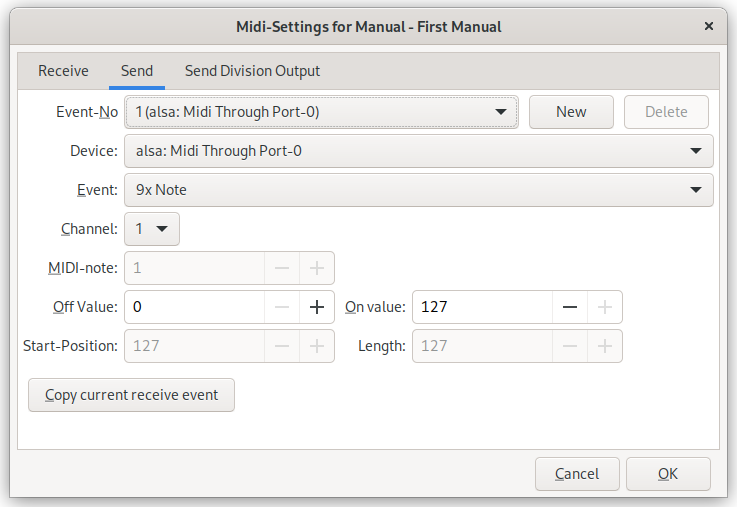
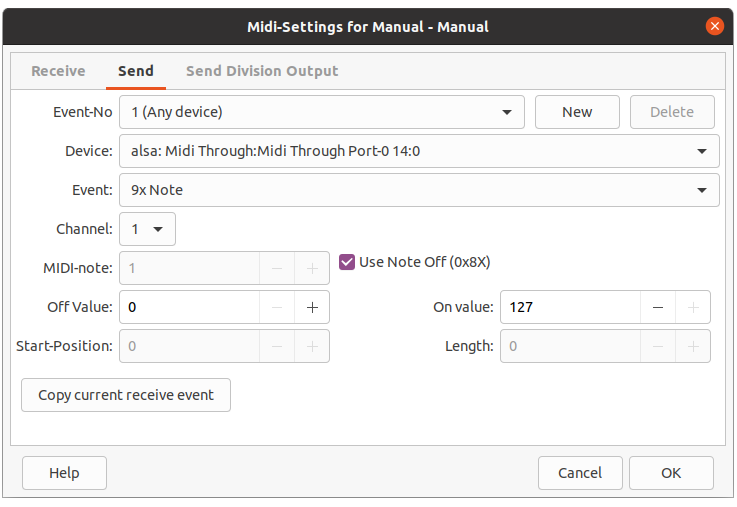
Changes according to comments on the PR.

diff --git a/src/grandorgue/midi/GOMidiSender.cpp b/src/grandorgue/midi/GOMidiSender.cpp
@@ -79,20 +79,21 @@ void GOMidiSender::Load(GOConfigReader &cfg, wxString group, GOMidiMap &map) {
         wxString::Format(wxT("MIDISendChannel%03d"), i + 1),
         1,
         16);
-    if (HasKey(eventType)) {
+    if (HasKey(eventType))
       m_events[i].key = cfg.ReadInteger(
         CMBSetting,
         group,
         wxString::Format(wxT("MIDISendKey%03d"), i + 1),
         0,
         0x200000);
+
+    if (IsNote(eventType))
       m_events[i].useNoteOff = cfg.ReadBoolean(
         CMBSetting,
         group,
         wxString::Format(wxT("MIDISendNoteOff%03d"), i + 1),
         false,
         true);
-    }
 
     if (HasLowValue(eventType))
       m_events[i].low_value = cfg.ReadInteger(
@@ -153,16 +154,17 @@ void GOMidiSender::Save(GOConfigWriter &cfg, wxString group, GOMidiMap &map) {
         group,
         wxString::Format(wxT("MIDISendChannel%03d"), i + 1),
         m_events[i].channel);
-    if (HasKey(m_events[i].type)) {
+    if (HasKey(m_events[i].type))
       cfg.WriteInteger(
         group,
         wxString::Format(wxT("MIDISendKey%03d"), i + 1),
         m_events[i].key);
+
+    if (IsNote(m_events[i].type))
       cfg.WriteBoolean(
         group,
         wxString::Format(wxT("MIDISendNoteOff%03d"), i + 1),
         m_events[i].useNoteOff);
-    }
 
     if (HasLowValue(m_events[i].type))
       cfg.WriteInteger(
@@ -262,6 +264,15 @@ bool GOMidiSender::HasLength(GOMidiSenderMessageType type) {
     type == MIDI_S_HW_NAME_STRING || type == MIDI_S_HW_NAME_LCD
     || type == MIDI_S_HW_STRING || type == MIDI_S_HW_LCD)
     return true;
+  return false;
+}
+
+bool GOMidiSender::IsNote(GOMidiSenderMessageType type) {
+  if (
+    type == MIDI_S_NOTE || type == MIDI_S_NOTE_NO_VELOCITY
+    || type == MIDI_S_NOTE_ON || type == MIDI_S_NOTE_OFF)
+    return true;
+
   return false;
 }
 

diff --git a/src/core/midi/GOMidiEvent.cpp b/src/core/midi/GOMidiEvent.cpp
@@ -20,7 +20,7 @@ GOMidiEvent::GOMidiEvent()
     m_time(0),
     m_string(),
     m_data(),
-    m_useNoteOff(true) {}
+    m_IsToUseNoteOff(true) {}
 
 GOMidiEvent::GOMidiEvent(const GOMidiEvent &e)
   : m_MidiType(e.m_MidiType),
@@ -31,7 +31,7 @@ GOMidiEvent::GOMidiEvent(const GOMidiEvent &e)
     m_time(e.m_time),
     m_string(e.m_string.Clone()),
     m_data(e.m_data),
-    m_useNoteOff(e.m_useNoteOff) {}
+    m_IsToUseNoteOff(e.m_IsToUseNoteOff) {}
 
 void GOMidiEvent::SetString(const wxString &str, unsigned length) {
   unsigned len = str.length();
@@ -187,7 +187,7 @@ void GOMidiEvent::ToMidi(
     if (GetChannel() == -1)
       return;
     m.resize(3);
-    if (GetValue() == 0 && m_useNoteOff)
+    if (GetValue() == 0 && m_IsToUseNoteOff)
       m[0] = 0x80;
     else
       m[0] = 0x90;
@@ -506,7 +506,3 @@ wxString GOMidiEvent::ToString(GOMidiMap &map) const {
     return wxEmptyString;
   }
 }
-
-void GOMidiEvent::SetUseNoteOff(bool useNoteOff) { m_useNoteOff = useNoteOff; }
-
-bool GOMidiEvent::IsUsingNoteOff() { return m_useNoteOff; }

diff --git a/src/grandorgue/dialogs/midi-event/GOMidiEventSendTab.cpp b/src/grandorgue/dialogs/midi-event/GOMidiEventSendTab.cpp
@@ -104,7 +104,7 @@ GOMidiEventSendTab::GOMidiEventSendTab(
   m_noteOff = new wxCheckBox(
     this,
     ID_NOTE_OFF,
-    wxT("Use Note OFF (0x80)"),
+    wxT("Use Note Off (0x8X)"),
     wxDefaultPosition,
     wxDefaultSize);
   grid->Add(m_noteOff, wxGBPosition(4, 2));
@@ -297,11 +297,12 @@ void GOMidiEventSendTab::OnTypeChange(wxCommandEvent &event) {
   if (m_original->HasKey(type)) {
     m_key->Enable();
     m_key->SetRange(0, m_original->KeyLimit(type));
-    m_noteOff->Enable();
-  } else {
+  } else
     m_key->Disable();
+  if (m_original->IsNote(type))
+    m_noteOff->Enable();
+  else
     m_noteOff->Disable();
-  }
   if (m_original->HasLowValue(type)) {
     m_LowValue->Enable();
     m_LowValue->SetRange(0, m_original->LowValueLimit(type));

diff --git a/src/core/midi/GOMidiEvent.h b/src/core/midi/GOMidiEvent.h
@@ -55,7 +55,7 @@ private:
   GOTime m_time;
   wxString m_string;
   std::vector<uint8_t> m_data;
-  bool m_useNoteOff;
+  bool m_IsToUseNoteOff;
 
 public:
   GOMidiEvent();
@@ -93,8 +93,8 @@ public:
 
   wxString ToString(GOMidiMap &map) const;
 
-  void SetUseNoteOff(bool useNoteOff);
-  bool IsUsingNoteOff();
+  void SetUseNoteOff(bool useNoteOff) { m_IsToUseNoteOff = useNoteOff; }
+  bool IsUsingNoteOff() { return m_IsToUseNoteOff; }
 };
 
 #endif

diff --git a/src/grandorgue/midi/GOMidiSender.h b/src/grandorgue/midi/GOMidiSender.h
@@ -46,6 +46,7 @@ public:
   bool HasHighValue(GOMidiSenderMessageType type);
   bool HasStart(GOMidiSenderMessageType type);
   bool HasLength(GOMidiSenderMessageType type);
+  bool IsNote(GOMidiSenderMessageType type);
   unsigned KeyLimit(GOMidiSenderMessageType type);
   unsigned LowValueLimit(GOMidiSenderMessageType type);
   unsigned HighValueLimit(GOMidiSenderMessageType type);
